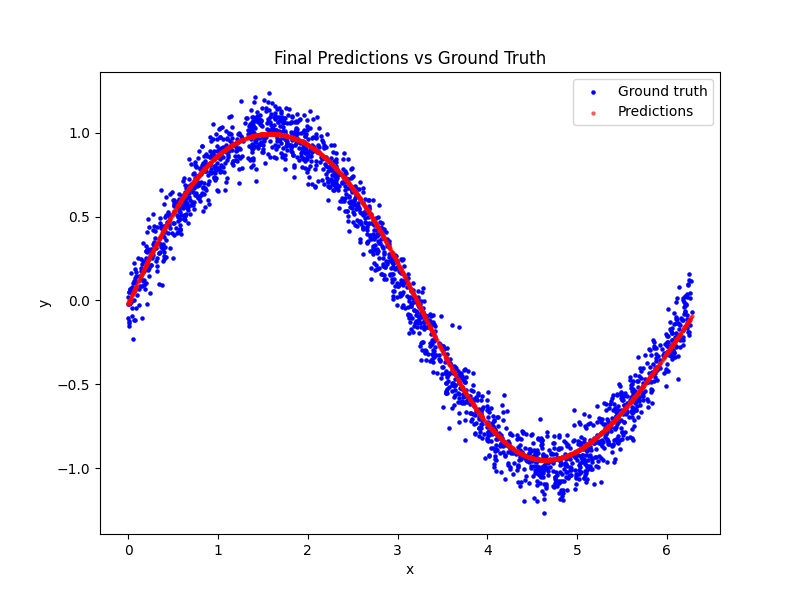
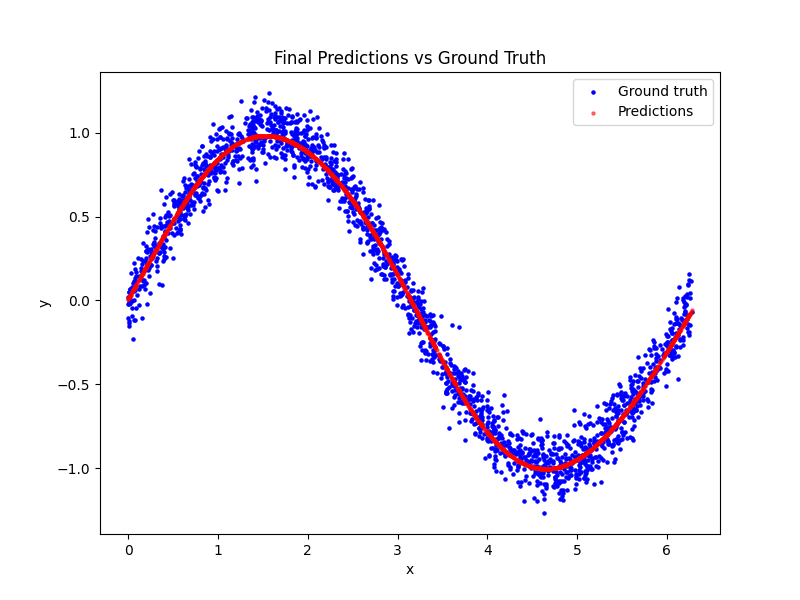
Small fix for PyTorch, to ensure reproducibility.

diff --git a/multi-layered-perceptron/pytorch_mlp.py b/multi-layered-perceptron/pytorch_mlp.py
@@ -10,7 +10,9 @@ from data import generate_data
 from torch.utils.data import DataLoader, TensorDataset
 from tqdm import tqdm
 
-np.random.seed(123)  # For reproducibility
+# For reproducibility
+np.random.seed(123)
+torch.manual_seed(123)
 
 data = generate_data()  # shape: (num_samples, 2)
 
